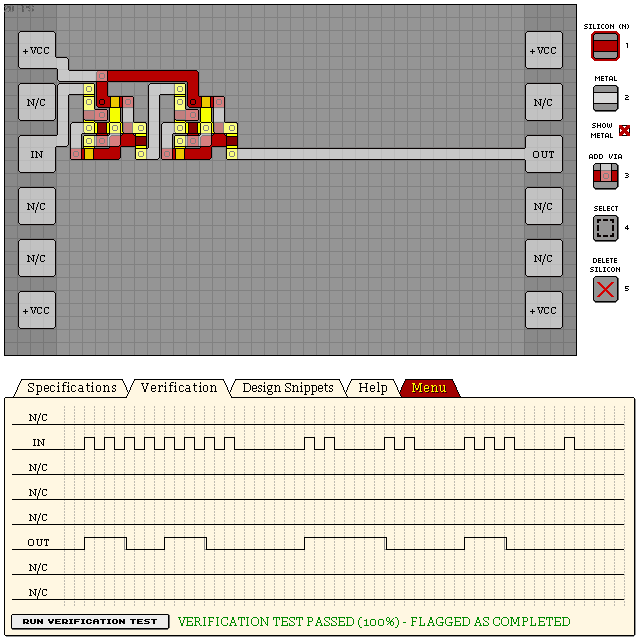
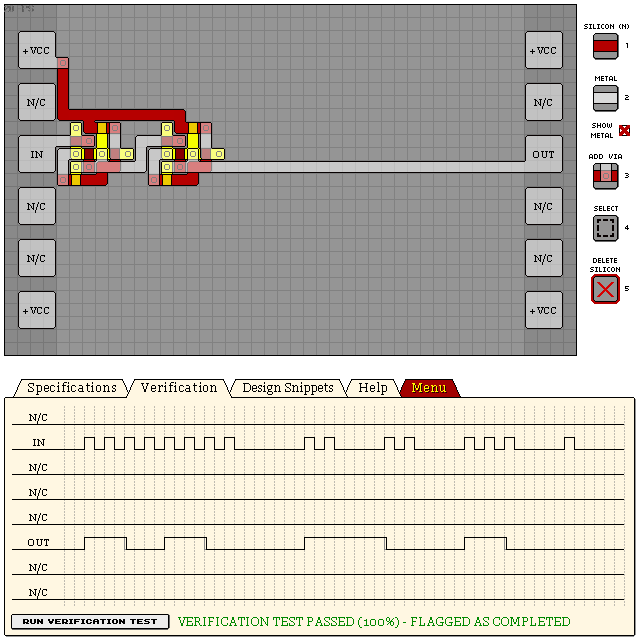
KC82F 100% 117

diff --git a/levels/11 KC82F DIVIDE-BY-FOUR COUNTER.md b/levels/11 KC82F DIVIDE-BY-FOUR COUNTER.md
@@ -2,19 +2,20 @@
 
 ## Dual T-Latch design
 
-- Verification: Passed (99%)
-- Design Score: 130
+- Verification: Passed (100%)
+- Design Score: 117
 
 ```
[7 lines of base64/hex data omitted]
-qdAGKsN4I7xkRqSkK9GZjqQcFwFjx4A=
[6 lines of base64/hex data omitted]
+nzPuf7HK91ecrtrgCP06dCo0/8i2GY4YESnpGPQDjvTafgFIrMdI
 ```
+
+
 
 ![11 KC82F DIVIDE-BY-FOUR COUNTER](./assets/11.png)
 
